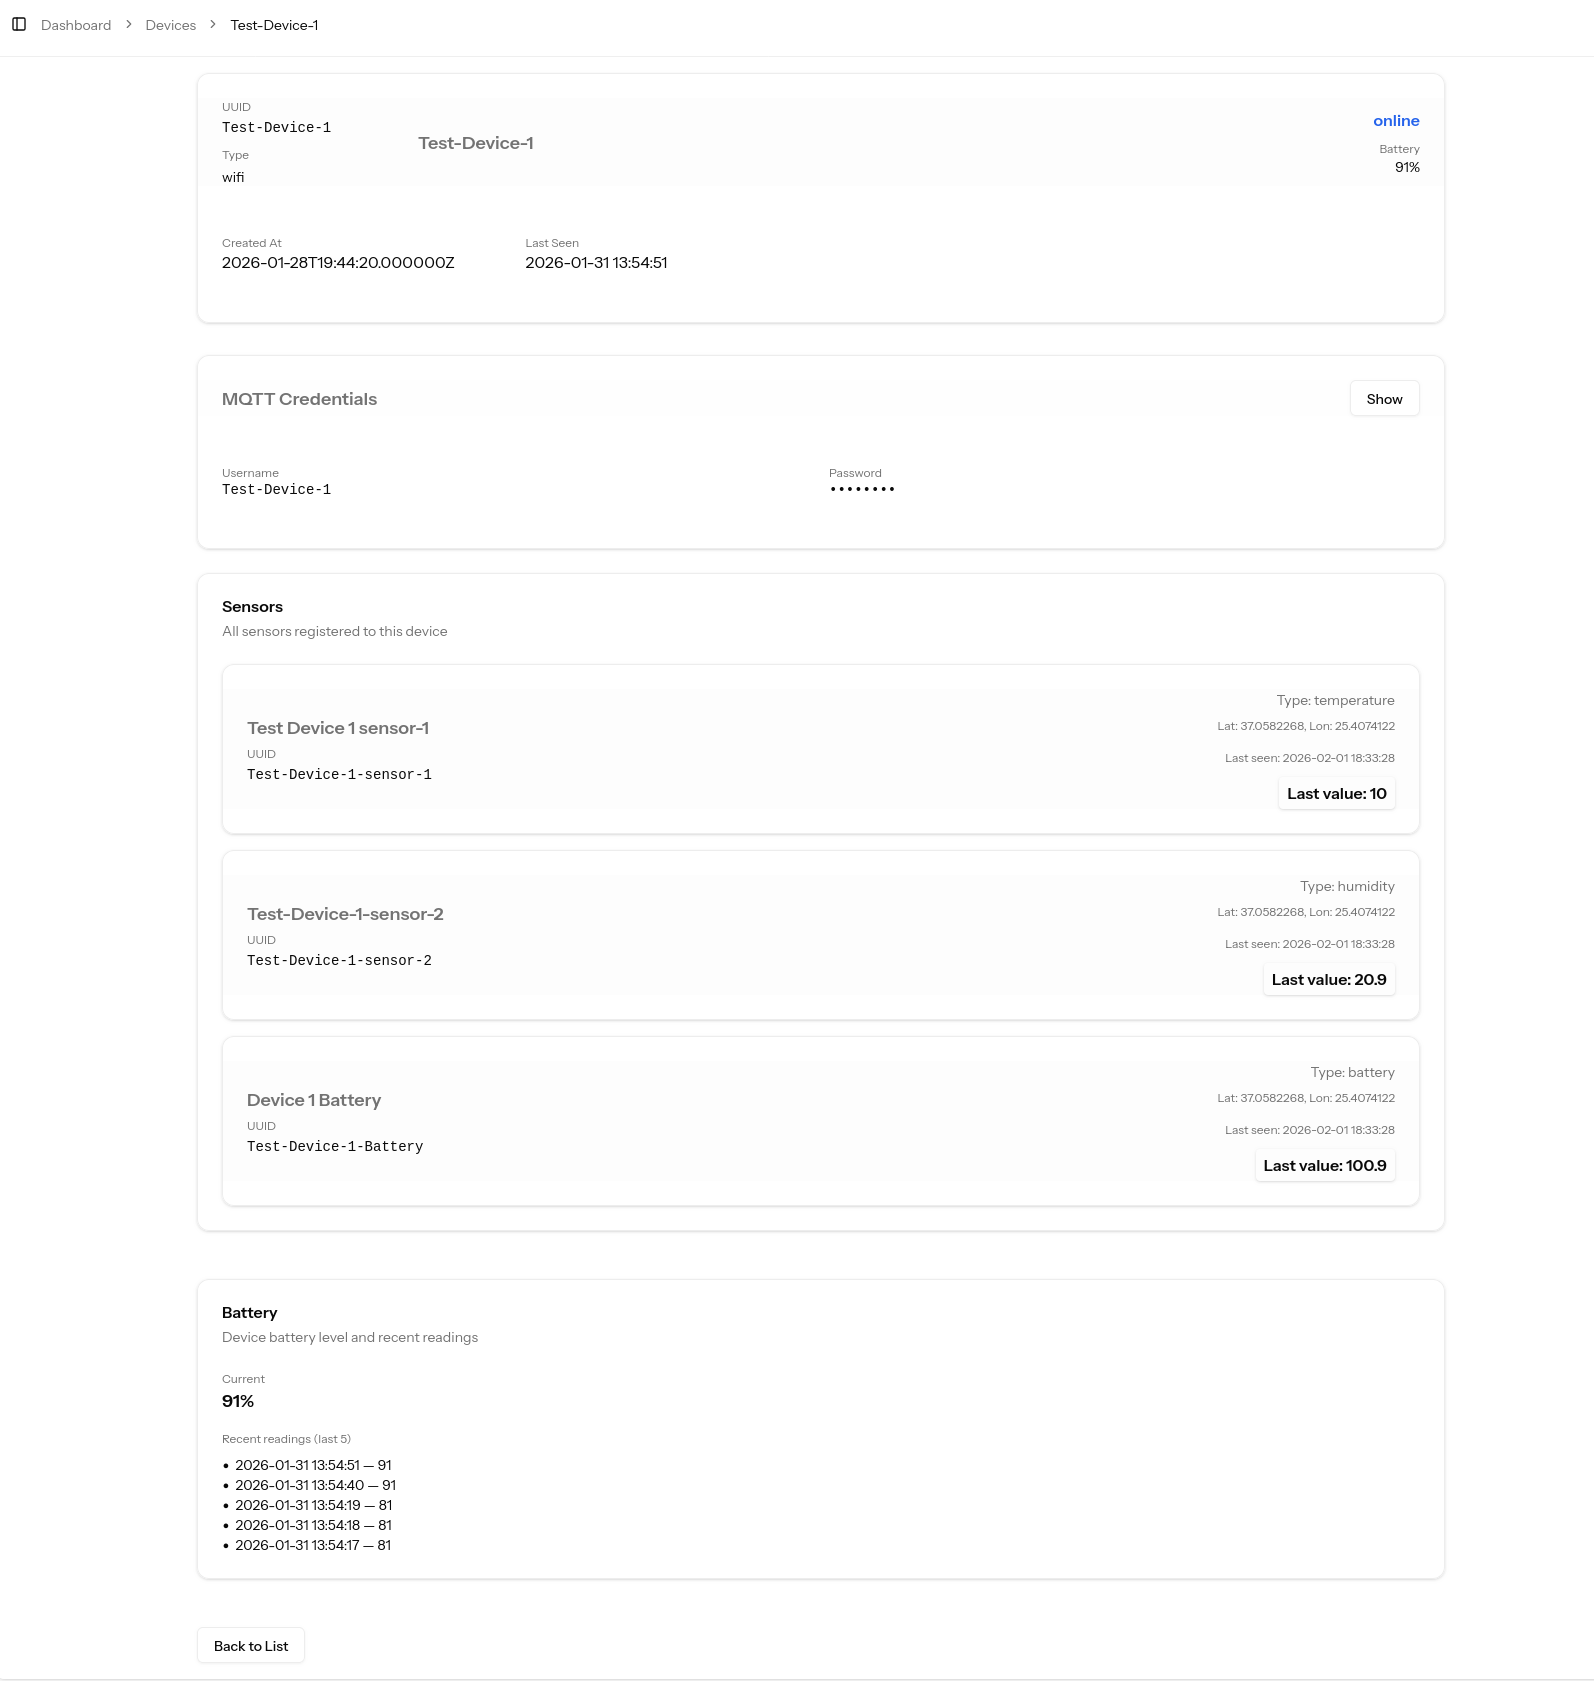
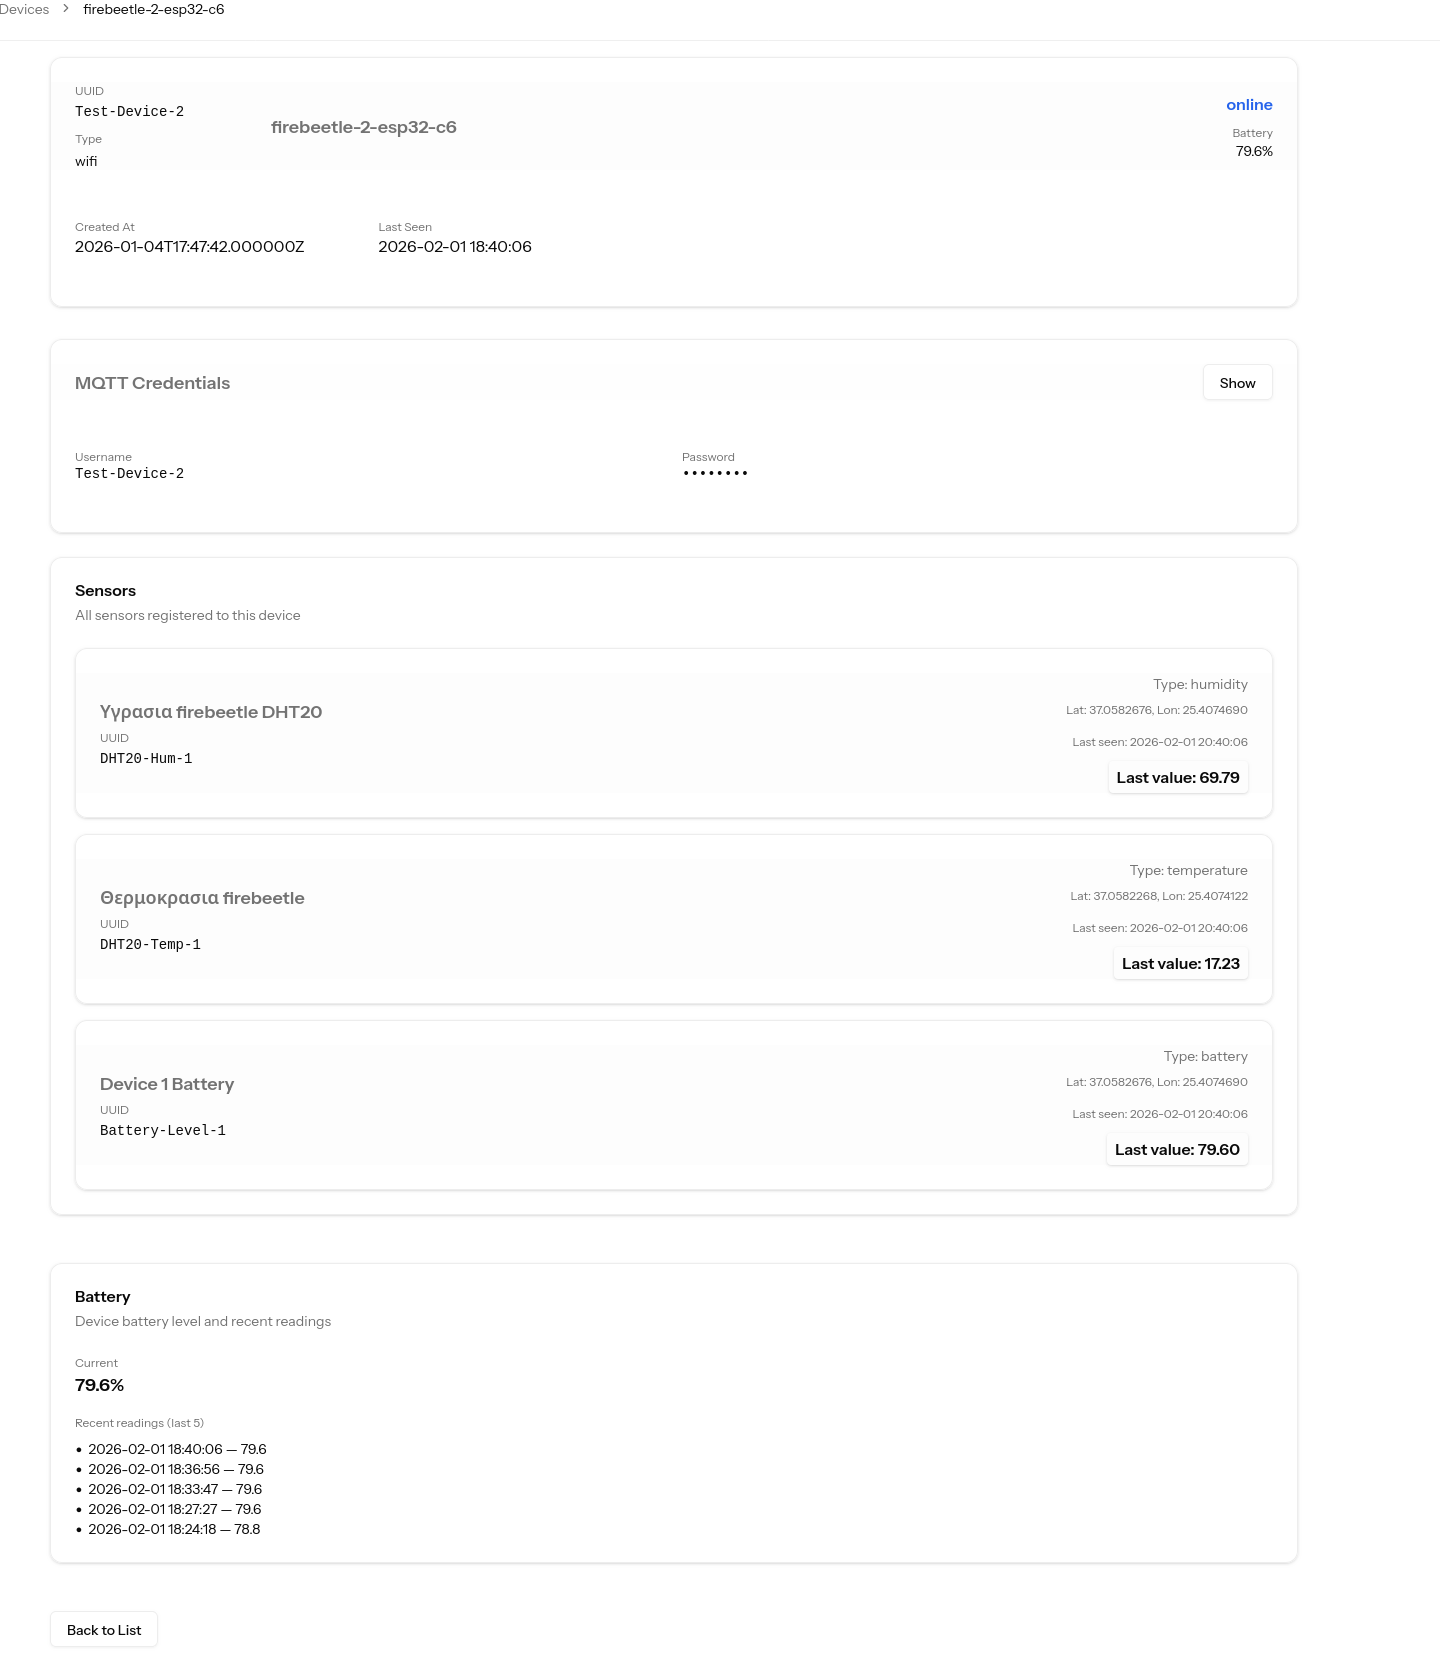
feat(report): add detailed battery monitoring report and device interface enhancements

diff --git a/docs/report4.1.md b/docs/report4.1.md
@@ -1,0 +1,78 @@
+# Αναφορά 4
+
+**Repository:** https://github.com/gkalogeitonas/Agronos-iot-device
+
+**Φοιτητής:** Καλογείτονας Γεωργιος
+
+**Επιβλέπων Καθηγητής:** Νικόλαος Σκλάβος
+
+**Ημερομηνία:** Ιανουάριος 2026
+
+---
+
+## Επέκταση Πλατφόρμας (Backend & Frontend)
+
+Πραγματοποιήθηκαν ενημερώσεις στην εφαρμογή Agronos (Laravel) για την υποστήριξη και διαχείριση της παρακολούθησης μπαταρίας.
+
+### Ευφυής Ένδειξη και Διεπαφή Μπαταρίας
+Προστέθηκε μια ενοποιημένη υποστήριξη για την ένδειξη μπαταρίας στη σελίδα λεπτομερειών της συσκευής:
+- Η διεπαφή εμφανίζει το τρέχον ποσοστό μπαταρίας και παρέχει ένα  ιστορικό μετρήσεων (time-series) για αναφορά.
+- Τα ιστορικά δεδομένα φορτώνονται καθυστερημένα (lazy loading) ώστε να μην επηρεάζουν την αρχική ταχύτητα φόρτωσης της σελίδας.
+- Η τελευταία διαθέσιμη τιμή μπαταρίας ανακτάται από την τοπική βάση δεδομένων της εφαρμογής και εμφανίζεται στην διεπαφή.
+
+Η ενοποίηση αυτή διατηρεί την παρουσίαση της μπαταρίας απλή για τον χρήστη, ενώ τα τεχνικά δεδομένα και τα ιστορικά παραμένουν διαθέσιμα στις διαγνωστικές οθόνες των συσκευών.
+
+Σημείωση. Όταν φτιάξαμε τον πίνακα των συσκευών, είχαμε προβλέψει κι ένα πεδίο ώστε να κρατάμε εκεί το επίπεδο της μπαταρίας, θεωρώντας ότι θα το στέλναμε ως metadata μαζί με τις μετρήσεις της συσκευής. Τελικά, προτιμήθηκε, αντί για metadata, να δημιουργήσουμε έναν αισθητήρα μπαταρίας, ώστε να εκμεταλλευτούμε την ήδη υπάρχουσα υποδομή για τους αισθητήρες, τόσο στο επίπεδο της συσκευής όσο και στο επίπεδο της εφαρμογής.
+Με αυτόν τον τρόπο μπορούμε να βρούμε το επίπεδο της μπαταρίας της συσκευής απλά κοιτώντας την τιμή του αισθητήρα μπαταρίας της κάθε συσκευής και να μη χρειαζόμαστε το πεδίο στην ίδια τη συσκευή.
+Θα μπορούσαμε, κατά την κατανάλωση των μετρήσεων, να ξεχωρίσουμε το επίπεδο της μπαταρίας και να το καταχωρήσουμε απευθείας στον πίνακα της συσκευής, το οποίο θα μας εξοικονομούσε ένα database query κατά την εμφάνισή της. Προς το παρόν, επιλέγουμε να μην το κάνουμε και να αφήσουμε την κατανάλωση των μετρήσεων από τους αισθητήρες ως έχει.
+Έτσι, σχεδιάσαμε μια μέθοδο όπου κοιτάμε πρώτα αν υπάρχει τιμή για το επίπεδο της μπαταρίας στα δεδομένα του μοντέλου της συσκευής και, αν δεν βρεθεί, προχωράμε να το ψάξουμε στα δεδομένα των αισθητήρων της.
+Κύριο επιχείρημα για αυτή την επιλογή είναι η διατήρηση της απλότητας και της συνέπειας στον κώδικα κατανάλωσης δεδομένων (data ingestion). Προτιμούμε αυτή η διαδικασία να είναι ταχεία και αποδοτική, αναλαμβάνοντας το μικρό κόστος ενός επιπλέον query κατά την εμφάνιση των δεδομένων. Με αυτόν τον τρόπο, η υπηρεσία έχει μία, καθαρή ευθύνη και όλοι οι αισθητήρες αντιμετωπίζονται ομοιόμορφα.
+Παρόλα αυτά, η προσέγγιση αυτή θα επανεξεταστεί στο μέλλον.
+
+
+```php
+
+    private function getBatteryLevel(Device $device, $sensors): ?float
+    {
+
+        if ($device->battery_level !== null) {
+            return is_numeric($device->battery_level) ? (float) $device->battery_level : null;
+        }
+
+        $batterySensor = $sensors->firstWhere('type', SensorType::BATTERY->value);
+        if ($batterySensor && $batterySensor->last_reading !== null) {
+            return is_numeric($batterySensor->last_reading) ? (float) $batterySensor->last_reading : null;
+        }
+
+        return null;
+    }
+```
+
+
+
+![alt text](images/device_show_page_with_battery.png)
+
+###  Φιλτράρισμα Δεδομένων Αγρού (Scoping)
+Για να διατηρηθεί η καθαρότητα των δεδομένων που βλέπει ο τελικός χρήστης (αγρότης):
+- Υλοποιήθηκε η μέθοδος `SensorType::farmRelevantValues` στο σύστημα Enums.
+- Δημιουργήθηκε το Eloquent Scope `scopeFarmRelevant` στο μοντέλο `Sensor`.
+
+Η λειτουργία αυτή φιλτράρει αυτόματα καθαρά τεχνικούς αισθητήρες (όπως η τάση μπαταρίας ) από τις οθόνες επισκόπησης καλλιέργειας (Farm Dashboard). Έτσι, ο χρήστης εστιάζει αποκλειστικά σε γεωπονικά δεδομένα (Θερμοκρασία, Υγρασία εδάφους/αέρα), ενώ οι τεχνικές μετρήσεις παραμένουν προσβάσιμες μόνο στις διαγνωστικές οθόνες των συσκευών.
+
+Σχετικά αρχεία:
+- [app/Enums/SensorType.php](https://github.com/gkalogeitonas/agronos/blob/main/app/Enums/SensorType.php)
+- [app/Models/Sensor.php](https://github.com/gkalogeitonas/agronos/blob/main/app/Models/Sensor.php)
+- [app/Http/Controllers/FarmController.php](https://github.com/gkalogeitonas/agronos/blob/main/app/Http/Controllers/FarmController.php)
+
+
+### Αλλες αλλαγες στην σελιδα των συσκευων 
+
+Όπως φαίνεται και στην εικόνα που έχει ενσωματωθεί παραπάνω, η σελίδα πληροφοριών της κάθε συσκευής έχει πλέον εμπλουτιστεί με δύο σημαντικά στοιχεία. Πλέον, κάτω από τα βασικά χαρακτηριστικά της, εμφανίζεται η λίστα με όλους τους αισθητήρες που της ανήκουν.
+
+Επιπλέον, προστέθηκε και μια ενότητα όπου προβάλλονται τα διαπιστευτήρια (MQTT credentials) που έχουν εκδοθεί για τη συγκεκριμένη συσκευή, διευκολύνοντας έτσι τη διαχείριση και τον έλεγχο της συνδεσιμότητας της.
+
+
+
+
+
+
